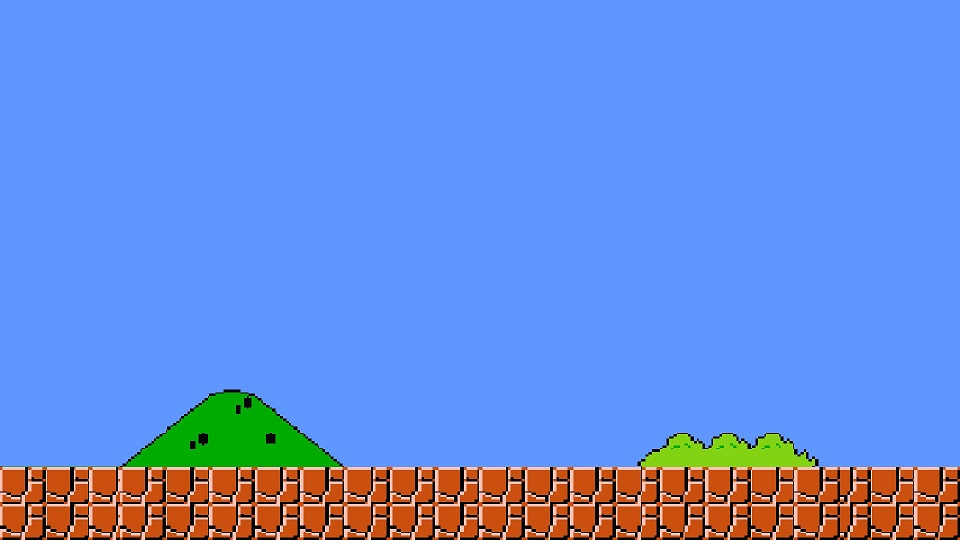
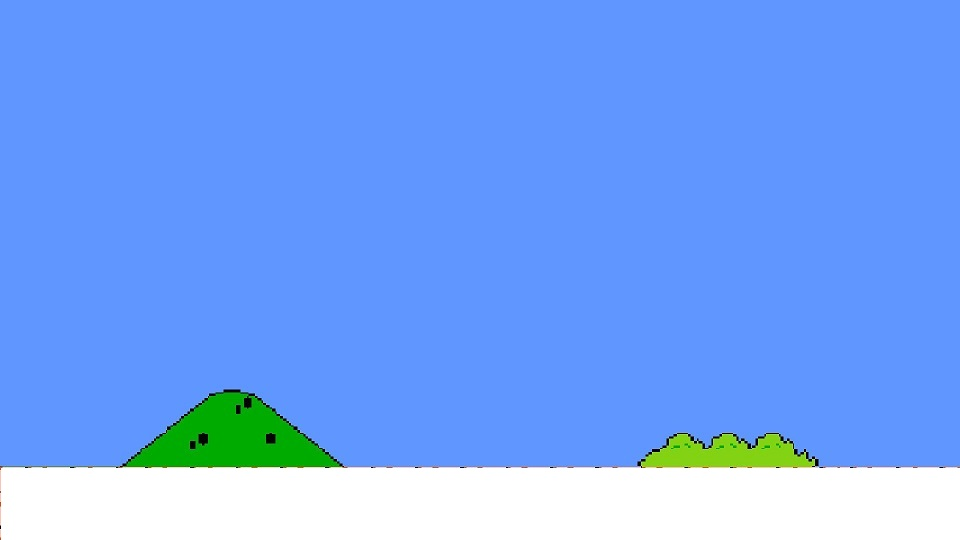
mario help

Changed region(s): [[0.0, 0.8593, 1.0, 1.0]]

diff --git a/ASOUB_Lesson/Students/Anand/MarioProject/Mario/Mario.java b/ASOUB_Lesson/Students/Anand/MarioProject/Mario/Mario.java
@@ -8,12 +8,36 @@ import greenfoot.*;  // (World, Actor, GreenfootImage, Greenfoot and MouseInfo)
  */
 public class Mario extends Actor
 {
-    /**
-     * Act - do whatever the Mario wants to do. This method is called whenever
-     * the 'Act' or 'Run' button gets pressed in the environment.
-     */
+    private int gravity = 1;
+    private int velocity;
     public void act() 
     {
-        // Add your action code here.
-    }    
+        if (Greenfoot.isKeyDown("right")){
+            setLocation(getX() + 5, getY());
+        }
+        if (Greenfoot.isKeyDown("left")){
+            setLocation(getX() - 5, getY());
+        }
+        fall();
+        if (Greenfoot.isKeyDown("space")) jump();
+    }
+    public void fall(){
+        setLocation(getX(), getY() + velocity);
+        if (getY() > getWorld().getHeight() - 5) 
+        {
+            velocity = 0;
+        }
+        else 
+        {
+            velocity += gravity;
+        }
+        while(getOneIntersectingObject(null)!=null)
+        {
+            setLocation(getX() - 0, getY());
+        }
+        
+    }
+    public void jump(){
+        velocity = -10;
+    }
 }

diff --git a/ASOUB_Lesson/Students/Anand/MarioProject/Mario/Border.java b/ASOUB_Lesson/Students/Anand/MarioProject/Mario/Border.java
@@ -1,0 +1,19 @@
+import greenfoot.*;  // (World, Actor, GreenfootImage, Greenfoot and MouseInfo)
+
+/**
+ * Write a description of class Border here.
+ * 
+ * @author (your name) 
+ * @version (a version number or a date)
+ */
+public class Border extends Actor
+{
+    /**
+     * Act - do whatever the Border wants to do. This method is called whenever
+     * the 'Act' or 'Run' button gets pressed in the environment.
+     */
+    public void act() 
+    {
+        // Add your action code here.
+    }    
+}

diff --git a/ASOUB_Lesson/Students/Anand/MarioProject/Mario/MyWorld.java b/ASOUB_Lesson/Students/Anand/MarioProject/Mario/MyWorld.java
@@ -19,5 +19,7 @@ public class MyWorld extends World
         super(960, 540, 1); 
         Mario mario = new Mario();
         addObject(mario, 100, 400);
+        Border border = new Border();
+        addObject(border, 480, 505);
     }
 }

diff --git a/ASOUB_Lesson/Students/Khangaikhuu/MortalCombat/MyWorld.java b/ASOUB_Lesson/Students/Khangaikhuu/MortalCombat/MyWorld.java
@@ -16,6 +16,6 @@ public class MyWorld extends World
     public MyWorld()
     {    
         // Create a new world with 600x400 cells with a cell size of 1x1 pixels.
-        super(600, 400, 1); 
+        super(1000, 600, 1); 
     }
 }
